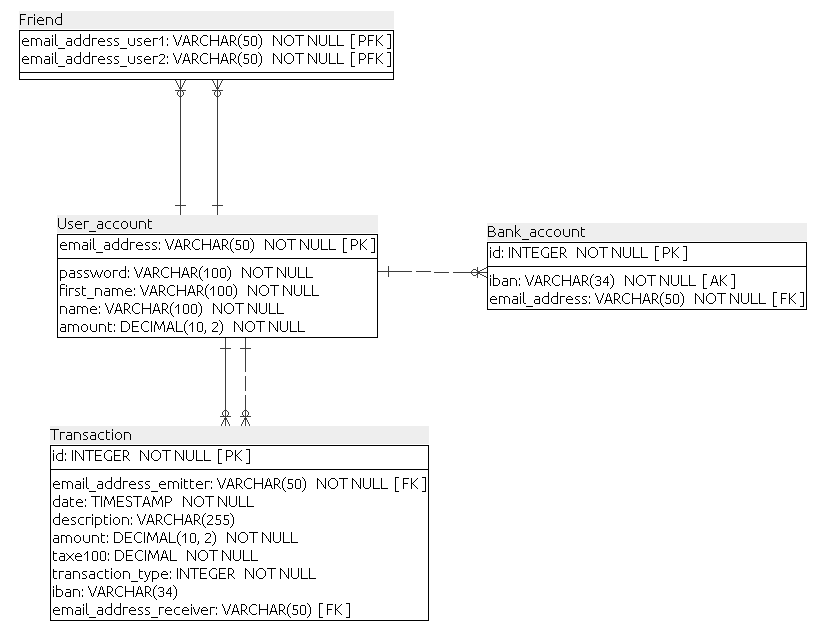
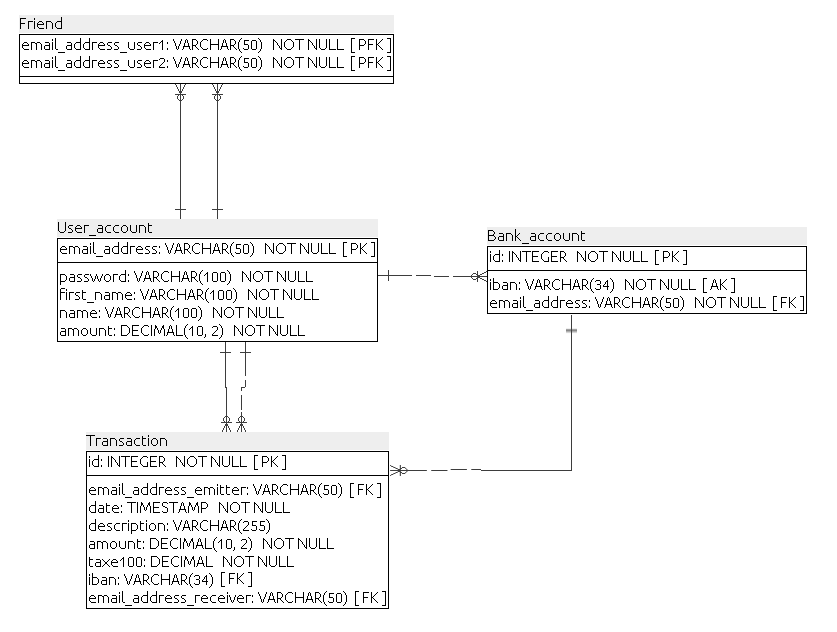
create moneyDeposit

Changed region(s): [[0.0605, 0.3307, 0.5441, 0.9921], [0.0, 0.0301, 0.4837, 0.3307], [0.4534, 0.3608, 0.9674, 0.5411]]

diff --git a/src/main/java/com/PayMyBuddy/controller/TransactionController.java b/src/main/java/com/PayMyBuddy/controller/TransactionController.java
@@ -3,6 +3,7 @@ package com.PayMyBuddy.controller;
 import com.PayMyBuddy.exceptions.IsForbiddenException;
 import com.PayMyBuddy.exceptions.NonexistentException;
 import com.PayMyBuddy.model.Transaction;
+import com.PayMyBuddy.service.BankAccountService;
 import com.PayMyBuddy.service.FriendService;
 import com.PayMyBuddy.service.TransactionService;
 import com.PayMyBuddy.service.UserAccountService;
@@ -25,6 +26,9 @@ public class TransactionController {
   private FriendService friendService;
   @Autowired
   private UserAccountService userAccountService;
+
+  @Autowired
+  private BankAccountService bankAccountService;
 
   /**
    * Read - Get all transactions
@@ -78,6 +82,49 @@ public class TransactionController {
           "The emitter has not enough money on his account to make a transaction.");
     }
     return newFriendTransaction;
+  }
+
+  /**
+   * Create a transaction from the bank account to the app account
+   * 
+   * @param moneyDeposit An Transaction object
+   * @return The moneyDeposit object saved
+   */
+  @PostMapping("/moneyDeposit")
+  public Transaction createMoneyDeposit(@RequestBody Transaction moneyDeposit) {
+    Transaction newMoneyDeposit = null;
+    boolean existingUserAccount = false;
+    boolean existingBankAccount = false;
+    try {
+      logger.info("Post request with the endpoint 'moneyDeposit'");
+      existingUserAccount = userAccountService.userAccountEmailExist(moneyDeposit.getEmailAddressReceiver());
+      if (existingUserAccount) {
+        existingBankAccount = bankAccountService.bankAccountExist(moneyDeposit.getEmailAddressReceiver(),
+            moneyDeposit.getIban());
+        if (existingBankAccount) {
+          newMoneyDeposit = transactionService.makeMoneyDeposit(moneyDeposit);
+          logger.info(
+              "response following the Post on the endpoint 'moneyDeposit' with the given moneyDeposit : {"
+                  + moneyDeposit.toString() + "}");
+        }
+      }
+    } catch (Exception exception) {
+      logger.error("Error in the TransactionController in the method createMoneyDeposit :"
+          + exception.getMessage());
+    }
+    if (existingUserAccount == false) {
+      logger.error("The user account "
+          + moneyDeposit.getEmailAddressReceiver() + " doesn't exist.");
+      throw new NonexistentException(
+          "The user account "
+              + moneyDeposit.getEmailAddressReceiver() + " doesn't exist.");
+    }
+    if (!existingBankAccount) {
+      logger.error("The emitter has not this bank account.");
+      throw new IsForbiddenException(
+          "The emitter has not this bank account.");
+    }
+    return newMoneyDeposit;
   }
 
 }

diff --git a/src/main/java/com/PayMyBuddy/service/TransactionServiceImpl.java b/src/main/java/com/PayMyBuddy/service/TransactionServiceImpl.java
@@ -1,8 +1,10 @@
 package com.PayMyBuddy.service;
 
 import com.PayMyBuddy.constants.Tax;
+import com.PayMyBuddy.model.BankAccount;
 import com.PayMyBuddy.model.Transaction;
 import com.PayMyBuddy.model.UserAccount;
+import com.PayMyBuddy.repository.BankAccountRepository;
 import com.PayMyBuddy.repository.TransactionRepository;
 import com.PayMyBuddy.repository.UserAccountRepository;
 import java.util.Date;
@@ -22,6 +24,9 @@ public class TransactionServiceImpl implements TransactionService {
 
   @Autowired
   private TransactionRepository transactionRepository;
+
+  @Autowired
+  private BankAccountRepository bankAccountRepository;
 
   @Autowired
   private UserAccountService userAccountService;
@@ -70,6 +75,33 @@ public class TransactionServiceImpl implements TransactionService {
   @Override
   public Iterable<Transaction> getTransactions() {
     return transactionRepository.findAll();
+  }
+
+  /**
+   * Make a transaction from a bank account of an user to the count of the app of
+   * this user
+   * 
+   * @param moneyDeposit A transaction to make
+   * @return the transaction made
+   */
+  @Override
+  @Transactional(rollbackOn = { Exception.class })
+  public Transaction makeMoneyDeposit(Transaction moneyDeposit) {
+    logger.debug("in the method makeFriendTransaction in the class TransactionServiceImpl");
+    try {
+      BankAccount emitter = bankAccountRepository.findByIban(moneyDeposit.getIban());
+      double taxAmount = moneyDeposit.getAmount() * Tax.TAX100 / 100;
+      // add here the direct debit from the bank account
+      // add here the transaction of tax_amount towards the account of the app
+      UserAccount receiver = userAccountRepository.findByEmailAddress(moneyDeposit.getEmailAddressReceiver());
+      receiver.setAmount(receiver.getAmount() + moneyDeposit.getAmount());
+      userAccountService.saveUserAccount(receiver);
+      moneyDeposit.setMyDate(new Date());
+      saveTransaction(moneyDeposit);
+    } catch (Exception exception) {
+      logger.error("Error when we try to make the transaction :" + exception.getMessage());
+    }
+    return moneyDeposit;
   }
 
 }

diff --git a/src/main/java/com/PayMyBuddy/controller/BankAccountController.java b/src/main/java/com/PayMyBuddy/controller/BankAccountController.java
@@ -1,0 +1,58 @@
+package com.PayMyBuddy.controller;
+
+import com.PayMyBuddy.exceptions.IsForbiddenException;
+import com.PayMyBuddy.model.BankAccount;
+import com.PayMyBuddy.service.BankAccountService;
+import org.apache.logging.log4j.LogManager;
+import org.apache.logging.log4j.Logger;
+import org.springframework.beans.factory.annotation.Autowired;
+import org.springframework.web.bind.annotation.GetMapping;
+import org.springframework.web.bind.annotation.PostMapping;
+import org.springframework.web.bind.annotation.RequestBody;
+import org.springframework.web.bind.annotation.RestController;
+
+@RestController
+public class BankAccountController {
+
+  private static final Logger logger = LogManager.getLogger(BankAccountController.class);
+
+  @Autowired
+  private BankAccountService bankAccountService;
+
+  /**
+   * Read - Get all bank accounts
+   * 
+   * @return - An Iterable object of bank accounts full filled
+   */
+  @GetMapping("/bankAccounts")
+  public Iterable<BankAccount> getBankAccounts() {
+    return bankAccountService.getBankAccounts();
+  }
+
+  /**
+   * Add a new bank account
+   * 
+   * @param bankAccount An object bankAccount
+   * @return The bankAccount object saved
+   */
+  @PostMapping("/bankAccount")
+  public BankAccount createBankAccount(@RequestBody BankAccount bankAccount) {
+    BankAccount newBankAccount = null;
+    if (bankAccount.getEmailAddress() == null || bankAccount.getIban() == null) {
+      logger.error("The new bank account has to get an email address with an iban.");
+      throw new IsForbiddenException(
+          "The new bank account has to get an email address with an iban.");
+    }
+    try {
+      newBankAccount = bankAccountService.saveBankAccount(bankAccount);
+      logger.info(
+          "response following the Post on the endpoint 'bankAccount' with the given bankAccount : {"
+              + bankAccount.toString() + "}");
+    } catch (Exception exception) {
+      logger.error("Error in the BankAccountController in the method createBankAccount :"
+          + exception.getMessage());
+    }
+    return newBankAccount;
+  }
+
+}

diff --git a/src/main/java/com/PayMyBuddy/service/BankAccountServiceImpl.java b/src/main/java/com/PayMyBuddy/service/BankAccountServiceImpl.java
@@ -1,0 +1,61 @@
+package com.PayMyBuddy.service;
+
+import com.PayMyBuddy.model.BankAccount;
+import com.PayMyBuddy.repository.BankAccountRepository;
+import org.apache.logging.log4j.LogManager;
+import org.apache.logging.log4j.Logger;
+import org.springframework.beans.factory.annotation.Autowired;
+import org.springframework.stereotype.Service;
+
+@Service
+public class BankAccountServiceImpl implements BankAccountService {
+
+  private static final Logger logger = LogManager.getLogger(BankAccountServiceImpl.class);
+
+  @Autowired
+  private BankAccountRepository bankAccountRepository;
+
+  /**
+   * Check if the given iban exists for the given email.
+   * 
+   * @param emailAddressReceiver The given email
+   * @param emailAddress_user2   The given email
+   * @return true if the association of both exist, otherwise returns false
+   */
+  @Override
+  public boolean bankAccountExist(String emailAddressReceiver, String iban) {
+    logger.debug("in the method bankAccountExist in the class BankAccountServiceImpl");
+    return bankAccountRepository.existsByEmailAddressAndIban(
+        emailAddressReceiver,
+        iban);
+  }
+
+  /**
+   * Get all bank accounts
+   * 
+   * @return all bank accounts
+   */
+  @Override
+  public Iterable<BankAccount> getBankAccounts() {
+    return bankAccountRepository.findAll();
+  }
+
+  /**
+   * Save a bank account
+   * 
+   * @param bankAccount A bank account to save
+   * @return the saved bankAccount
+   */
+  @Override
+  public BankAccount saveBankAccount(BankAccount bankAccount) {
+    logger.debug("in the method saveBankAccount in the class BankAccountServiceImpl");
+    BankAccount savedBankAccount = null;
+    try {
+      savedBankAccount = bankAccountRepository.save(bankAccount);
+    } catch (Exception exception) {
+      logger.error("Error when we try to save a bank account :" + exception.getMessage());
+    }
+    return savedBankAccount;
+  }
+
+}

diff --git a/src/main/java/com/PayMyBuddy/service/BankAccountService.java b/src/main/java/com/PayMyBuddy/service/BankAccountService.java
@@ -1,0 +1,31 @@
+package com.PayMyBuddy.service;
+
+import com.PayMyBuddy.model.BankAccount;
+
+public interface BankAccountService {
+
+  /**
+   * Check if the given iban exists for the given email.
+   * 
+   * @param emailAddressReceiver The given email
+   * @param emailAddress_user2   The given email
+   * @return true if the association of both exist, otherwise returns false
+   */
+  boolean bankAccountExist(String emailAddressReceiver, String iban);
+
+  /**
+   * Get all bank accounts
+   * 
+   * @return all bank accounts
+   */
+  Iterable<BankAccount> getBankAccounts();
+
+  /**
+   * Save a bank account
+   * 
+   * @param bankAccount A bank account to save
+   * @return the saved bankAccount
+   */
+  BankAccount saveBankAccount(BankAccount bankAccount);
+
+}

diff --git a/src/main/java/com/PayMyBuddy/model/BankAccount.java b/src/main/java/com/PayMyBuddy/model/BankAccount.java
@@ -1,0 +1,25 @@
+package com.PayMyBuddy.model;
+
+import com.fasterxml.jackson.annotation.JsonIgnore;
+import javax.persistence.Entity;
+import javax.persistence.GeneratedValue;
+import javax.persistence.GenerationType;
+import javax.persistence.Id;
+import javax.persistence.Table;
+import lombok.Data;
+
+@Data
+@Entity
+@Table(name = "bank_account")
+public class BankAccount {
+
+  @Id
+  @GeneratedValue(strategy = GenerationType.IDENTITY)
+  @JsonIgnore
+  private Long id;
+
+  private String iban;
+
+  private String emailAddress;
+
+}

diff --git a/src/main/java/com/PayMyBuddy/repository/BankAccountRepository.java b/src/main/java/com/PayMyBuddy/repository/BankAccountRepository.java
@@ -1,0 +1,14 @@
+package com.PayMyBuddy.repository;
+
+import com.PayMyBuddy.model.BankAccount;
+import org.springframework.data.repository.CrudRepository;
+import org.springframework.stereotype.Repository;
+
+@Repository
+public interface BankAccountRepository extends CrudRepository<BankAccount, Long> {
+
+  boolean existsByEmailAddressAndIban(String emailAddressReceiver, String iban);
+
+  BankAccount findByIban(String iban);
+
+}

diff --git a/src/main/java/com/PayMyBuddy/service/TransactionService.java b/src/main/java/com/PayMyBuddy/service/TransactionService.java
@@ -19,4 +19,13 @@ public interface TransactionService {
    */
   Iterable<Transaction> getTransactions();
 
+  /**
+   * Make a transaction from a bank account of an user to the count of the app of
+   * this user
+   * 
+   * @param moneyDeposit A transaction to make
+   * @return the transaction made
+   */
+  Transaction makeMoneyDeposit(Transaction moneyDeposit);
+
 }
